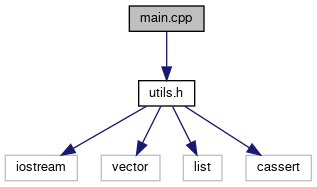
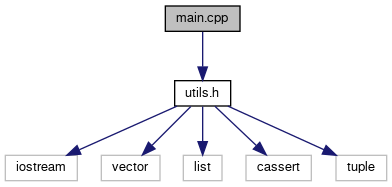
deploy: 55a50cbe7d2920061a69af32688ae398aefd9650

diff --git a/utils_8h_source.html b/utils_8h_source.html
@@ -72,68 +72,87 @@ $(function() {
 <div class="line"><a id="l00005" name="l00005"></a><span class="lineno">    5</span><span class="preprocessor">#include &lt;vector&gt;</span></div>
 <div class="line"><a id="l00006" name="l00006"></a><span class="lineno">    6</span><span class="preprocessor">#include &lt;list&gt;</span></div>
 <div class="line"><a id="l00007" name="l00007"></a><span class="lineno">    7</span><span class="preprocessor">#include &lt;cassert&gt;</span></div>
-<div class="line"><a id="l00008" name="l00008"></a><span class="lineno">    8</span> </div>
-<div class="line"><a id="l00023" name="l00023"></a><span class="lineno"><a class="line" href="namespaceutils.html">   23</a></span><span class="keyword">namespace </span><a class="code hl_namespace" href="namespaceutils.html">utils</a></div>
-<div class="line"><a id="l00024" name="l00024"></a><span class="lineno">   24</span>{</div>
-<div class="line"><a id="l00030" name="l00030"></a><span class="lineno"><a class="line" href="namespaceutils.html#a725b74b07b30df6a8e6a67eac89278de">   30</a></span>    <span class="keywordtype">void</span> <a class="code hl_function" href="namespaceutils.html#a725b74b07b30df6a8e6a67eac89278de">print_ip</a>(<span class="keyword">const</span> std::string &amp;ip, std::ostream &amp;out = std::cout)</div>
-<div class="line"><a id="l00031" name="l00031"></a><span class="lineno">   31</span>    {</div>
-<div class="line"><a id="l00032" name="l00032"></a><span class="lineno">   32</span>        out &lt;&lt; ip &lt;&lt; std::endl;</div>
-<div class="line"><a id="l00033" name="l00033"></a><span class="lineno">   33</span>    }</div>
-<div class="line"><a id="l00034" name="l00034"></a><span class="lineno">   34</span> </div>
-<div class="line"><a id="l00041" name="l00041"></a><span class="lineno">   41</span>    <span class="keyword">template</span>&lt;<span class="keyword">typename</span> T,</div>
-<div class="line"><a id="l00042" name="l00042"></a><span class="lineno">   42</span>             <span class="keyword">typename</span> Fake =</div>
-<div class="line"><a id="l00043" name="l00043"></a><span class="lineno">   43</span>             <span class="keyword">typename</span> std::enable_if&lt;</div>
-<div class="line"><a id="l00044" name="l00044"></a><span class="lineno">   44</span>                 std::is_integral&lt;T&gt;::value, <span class="keywordtype">void</span></div>
-<div class="line"><a id="l00045" name="l00045"></a><span class="lineno">   45</span>                 &gt;::type</div>
-<div class="line"><a id="l00046" name="l00046"></a><span class="lineno">   46</span>             &gt;</div>
-<div class="line"><a id="l00047" name="l00047"></a><span class="lineno"><a class="line" href="namespaceutils.html#a55b3bae3522f3f6cc1bec69a99edc0c1">   47</a></span>    <span class="keywordtype">void</span> <a class="code hl_function" href="namespaceutils.html#a725b74b07b30df6a8e6a67eac89278de">print_ip</a>(<span class="keyword">const</span> T &amp;ip, std::ostream &amp;out = std::cout)</div>
-<div class="line"><a id="l00048" name="l00048"></a><span class="lineno">   48</span>    {</div>
-<div class="line"><a id="l00049" name="l00049"></a><span class="lineno">   49</span>        <span class="keywordtype">int</span> ip_copy = <span class="keyword">static_cast&lt;</span><span class="keywordtype">int</span><span class="keyword">&gt;</span>(ip);</div>
-<div class="line"><a id="l00050" name="l00050"></a><span class="lineno">   50</span>        out &lt;&lt; ((ip_copy &gt;&gt; 24) &amp; 0xFF) &lt;&lt; <span class="stringliteral">&quot;.&quot;</span></div>
-<div class="line"><a id="l00051" name="l00051"></a><span class="lineno">   51</span>            &lt;&lt; ((ip_copy &gt;&gt; 16) &amp; 0xFF) &lt;&lt; <span class="stringliteral">&quot;.&quot;</span></div>
-<div class="line"><a id="l00052" name="l00052"></a><span class="lineno">   52</span>            &lt;&lt; ((ip_copy &gt;&gt;  8) &amp; 0xFF) &lt;&lt; <span class="stringliteral">&quot;.&quot;</span></div>
-<div class="line"><a id="l00053" name="l00053"></a><span class="lineno">   53</span>            &lt;&lt; ((ip_copy &gt;&gt;  0) &amp; 0xFF) &lt;&lt; std::endl;</div>
-<div class="line"><a id="l00054" name="l00054"></a><span class="lineno">   54</span>    }</div>
-<div class="line"><a id="l00055" name="l00055"></a><span class="lineno">   55</span> </div>
-<div class="line"><a id="l00059" name="l00059"></a><span class="lineno">   59</span>    <span class="keyword">template</span>&lt;<span class="keyword">typename</span> T&gt;</div>
-<div class="line"><a id="l00060" name="l00060"></a><span class="lineno">   60</span>    <span class="keyword">struct </span>is_container {</div>
-<div class="line"><a id="l00061" name="l00061"></a><span class="lineno">   61</span>            <span class="keyword">static</span> <span class="keyword">const</span> <span class="keywordtype">bool</span> value = <span class="keyword">false</span>;</div>
-<div class="line"><a id="l00062" name="l00062"></a><span class="lineno">   62</span>    };</div>
-<div class="line"><a id="l00063" name="l00063"></a><span class="lineno">   63</span> </div>
-<div class="line"><a id="l00064" name="l00064"></a><span class="lineno">   64</span>    <span class="keyword">template</span>&lt;<span class="keyword">typename</span> U&gt;</div>
-<div class="line"><a id="l00065" name="l00065"></a><span class="lineno">   65</span>    <span class="keyword">struct </span>is_container&lt;std::vector&lt;U&gt;&gt; {</div>
-<div class="line"><a id="l00066" name="l00066"></a><span class="lineno">   66</span>            <span class="keyword">static</span> <span class="keyword">const</span> <span class="keywordtype">bool</span> value = <span class="keyword">true</span>;</div>
-<div class="line"><a id="l00067" name="l00067"></a><span class="lineno">   67</span>    };</div>
-<div class="line"><a id="l00068" name="l00068"></a><span class="lineno">   68</span> </div>
-<div class="line"><a id="l00069" name="l00069"></a><span class="lineno">   69</span>    <span class="keyword">template</span>&lt;<span class="keyword">typename</span> U&gt;</div>
-<div class="line"><a id="l00070" name="l00070"></a><span class="lineno">   70</span>    <span class="keyword">struct </span>is_container&lt;std::list&lt;U&gt;&gt; {</div>
-<div class="line"><a id="l00071" name="l00071"></a><span class="lineno">   71</span>            <span class="keyword">static</span> <span class="keyword">const</span> <span class="keywordtype">bool</span> value = <span class="keyword">true</span>;</div>
-<div class="line"><a id="l00072" name="l00072"></a><span class="lineno">   72</span>    };</div>
-<div class="line"><a id="l00083" name="l00083"></a><span class="lineno">   83</span>    <span class="keyword">template</span>&lt;<span class="keyword">typename</span> T,</div>
-<div class="line"><a id="l00084" name="l00084"></a><span class="lineno">   84</span>             <span class="keyword">typename</span> Fake =</div>
-<div class="line"><a id="l00085" name="l00085"></a><span class="lineno">   85</span>             <span class="keyword">typename</span> std::enable_if&lt;</div>
-<div class="line"><a id="l00086" name="l00086"></a><span class="lineno">   86</span>                 is_container&lt;T&gt;::value, <span class="keywordtype">void</span></div>
-<div class="line"><a id="l00087" name="l00087"></a><span class="lineno">   87</span>                 &gt;::type</div>
-<div class="line"><a id="l00088" name="l00088"></a><span class="lineno">   88</span>             &gt;</div>
-<div class="line"><a id="l00089" name="l00089"></a><span class="lineno"><a class="line" href="namespaceutils.html#aed55749e6be03439d9fae6e7123d9bbe">   89</a></span>    <span class="keywordtype">void</span> <a class="code hl_function" href="namespaceutils.html#a725b74b07b30df6a8e6a67eac89278de">print_ip</a>(T &amp;&amp;ip, std::ostream &amp;out = std::cout)</div>
-<div class="line"><a id="l00090" name="l00090"></a><span class="lineno">   90</span>    {</div>
-<div class="line"><a id="l00091" name="l00091"></a><span class="lineno">   91</span>        assert(ip.size() == <span class="keyword">sizeof</span>(<span class="keywordtype">int</span>));</div>
-<div class="line"><a id="l00092" name="l00092"></a><span class="lineno">   92</span>        <span class="keyword">auto</span> i = 0u;</div>
-<div class="line"><a id="l00093" name="l00093"></a><span class="lineno">   93</span>        <span class="keywordflow">for</span> (<span class="keyword">auto</span> it = ip.begin(); it != ip.end(); it++) {</div>
-<div class="line"><a id="l00094" name="l00094"></a><span class="lineno">   94</span>            out &lt;&lt; *it;</div>
-<div class="line"><a id="l00095" name="l00095"></a><span class="lineno">   95</span>            <span class="keywordflow">if</span> (i &lt; <span class="keyword">sizeof</span>(<span class="keywordtype">int</span>) - 1) {</div>
-<div class="line"><a id="l00096" name="l00096"></a><span class="lineno">   96</span>                out &lt;&lt; <span class="charliteral">&#39;.&#39;</span>;</div>
-<div class="line"><a id="l00097" name="l00097"></a><span class="lineno">   97</span>            } <span class="keywordflow">else</span> {</div>
-<div class="line"><a id="l00098" name="l00098"></a><span class="lineno">   98</span>                out &lt;&lt; std::endl;</div>
-<div class="line"><a id="l00099" name="l00099"></a><span class="lineno">   99</span>            }</div>
-<div class="line"><a id="l00100" name="l00100"></a><span class="lineno">  100</span>            i++;</div>
-<div class="line"><a id="l00101" name="l00101"></a><span class="lineno">  101</span>        }</div>
-<div class="line"><a id="l00102" name="l00102"></a><span class="lineno">  102</span>    }</div>
-<div class="line"><a id="l00103" name="l00103"></a><span class="lineno">  103</span>}</div>
+<div class="line"><a id="l00008" name="l00008"></a><span class="lineno">    8</span><span class="preprocessor">#include &lt;tuple&gt;</span></div>
+<div class="line"><a id="l00009" name="l00009"></a><span class="lineno">    9</span> </div>
+<div class="line"><a id="l00024" name="l00024"></a><span class="lineno"><a class="line" href="namespaceutils.html">   24</a></span><span class="keyword">namespace </span><a class="code hl_namespace" href="namespaceutils.html">utils</a></div>
+<div class="line"><a id="l00025" name="l00025"></a><span class="lineno">   25</span>{</div>
+<div class="line"><a id="l00031" name="l00031"></a><span class="lineno"><a class="line" href="namespaceutils.html#a725b74b07b30df6a8e6a67eac89278de">   31</a></span>    <span class="keywordtype">void</span> <a class="code hl_function" href="namespaceutils.html#a725b74b07b30df6a8e6a67eac89278de">print_ip</a>(<span class="keyword">const</span> std::string &amp;ip, std::ostream &amp;out = std::cout)</div>
+<div class="line"><a id="l00032" name="l00032"></a><span class="lineno">   32</span>    {</div>
+<div class="line"><a id="l00033" name="l00033"></a><span class="lineno">   33</span>        out &lt;&lt; ip &lt;&lt; std::endl;</div>
+<div class="line"><a id="l00034" name="l00034"></a><span class="lineno">   34</span>    }</div>
+<div class="line"><a id="l00035" name="l00035"></a><span class="lineno">   35</span> </div>
+<div class="line"><a id="l00042" name="l00042"></a><span class="lineno">   42</span>    <span class="keyword">template</span>&lt;<span class="keyword">typename</span> T,</div>
+<div class="line"><a id="l00043" name="l00043"></a><span class="lineno">   43</span>             <span class="keyword">typename</span> Fake =</div>
+<div class="line"><a id="l00044" name="l00044"></a><span class="lineno">   44</span>             <span class="keyword">typename</span> std::enable_if&lt;</div>
+<div class="line"><a id="l00045" name="l00045"></a><span class="lineno">   45</span>                 std::is_integral&lt;T&gt;::value, <span class="keywordtype">void</span></div>
+<div class="line"><a id="l00046" name="l00046"></a><span class="lineno">   46</span>                 &gt;::type</div>
+<div class="line"><a id="l00047" name="l00047"></a><span class="lineno">   47</span>             &gt;</div>
+<div class="line"><a id="l00048" name="l00048"></a><span class="lineno"><a class="line" href="namespaceutils.html#a55b3bae3522f3f6cc1bec69a99edc0c1">   48</a></span>    <span class="keywordtype">void</span> <a class="code hl_function" href="namespaceutils.html#a725b74b07b30df6a8e6a67eac89278de">print_ip</a>(<span class="keyword">const</span> T &amp;ip, std::ostream &amp;out = std::cout)</div>
+<div class="line"><a id="l00049" name="l00049"></a><span class="lineno">   49</span>    {</div>
+<div class="line"><a id="l00050" name="l00050"></a><span class="lineno">   50</span>        <span class="keywordtype">int</span> ip_copy = <span class="keyword">static_cast&lt;</span><span class="keywordtype">int</span><span class="keyword">&gt;</span>(ip);</div>
+<div class="line"><a id="l00051" name="l00051"></a><span class="lineno">   51</span>        out &lt;&lt; ((ip_copy &gt;&gt; 24) &amp; 0xFF) &lt;&lt; <span class="stringliteral">&quot;.&quot;</span></div>
+<div class="line"><a id="l00052" name="l00052"></a><span class="lineno">   52</span>            &lt;&lt; ((ip_copy &gt;&gt; 16) &amp; 0xFF) &lt;&lt; <span class="stringliteral">&quot;.&quot;</span></div>
+<div class="line"><a id="l00053" name="l00053"></a><span class="lineno">   53</span>            &lt;&lt; ((ip_copy &gt;&gt;  8) &amp; 0xFF) &lt;&lt; <span class="stringliteral">&quot;.&quot;</span></div>
+<div class="line"><a id="l00054" name="l00054"></a><span class="lineno">   54</span>            &lt;&lt; ((ip_copy &gt;&gt;  0) &amp; 0xFF) &lt;&lt; std::endl;</div>
+<div class="line"><a id="l00055" name="l00055"></a><span class="lineno">   55</span>    }</div>
+<div class="line"><a id="l00056" name="l00056"></a><span class="lineno">   56</span> </div>
+<div class="line"><a id="l00060" name="l00060"></a><span class="lineno">   60</span>    <span class="keyword">template</span>&lt;<span class="keyword">typename</span> T&gt;</div>
+<div class="line"><a id="l00061" name="l00061"></a><span class="lineno">   61</span>    <span class="keyword">struct </span>is_container {</div>
+<div class="line"><a id="l00062" name="l00062"></a><span class="lineno">   62</span>            <span class="keyword">static</span> <span class="keyword">const</span> <span class="keywordtype">bool</span> value = <span class="keyword">false</span>;</div>
+<div class="line"><a id="l00063" name="l00063"></a><span class="lineno">   63</span>    };</div>
+<div class="line"><a id="l00064" name="l00064"></a><span class="lineno">   64</span> </div>
+<div class="line"><a id="l00065" name="l00065"></a><span class="lineno">   65</span>    <span class="keyword">template</span>&lt;<span class="keyword">typename</span> U&gt;</div>
+<div class="line"><a id="l00066" name="l00066"></a><span class="lineno">   66</span>    <span class="keyword">struct </span>is_container&lt;std::vector&lt;U&gt;&gt; {</div>
+<div class="line"><a id="l00067" name="l00067"></a><span class="lineno">   67</span>            <span class="keyword">static</span> <span class="keyword">const</span> <span class="keywordtype">bool</span> value = <span class="keyword">true</span>;</div>
+<div class="line"><a id="l00068" name="l00068"></a><span class="lineno">   68</span>    };</div>
+<div class="line"><a id="l00069" name="l00069"></a><span class="lineno">   69</span> </div>
+<div class="line"><a id="l00070" name="l00070"></a><span class="lineno">   70</span>    <span class="keyword">template</span>&lt;<span class="keyword">typename</span> U&gt;</div>
+<div class="line"><a id="l00071" name="l00071"></a><span class="lineno">   71</span>    <span class="keyword">struct </span>is_container&lt;std::list&lt;U&gt;&gt; {</div>
+<div class="line"><a id="l00072" name="l00072"></a><span class="lineno">   72</span>            <span class="keyword">static</span> <span class="keyword">const</span> <span class="keywordtype">bool</span> value = <span class="keyword">true</span>;</div>
+<div class="line"><a id="l00073" name="l00073"></a><span class="lineno">   73</span>    };</div>
+<div class="line"><a id="l00084" name="l00084"></a><span class="lineno">   84</span>    <span class="keyword">template</span>&lt;<span class="keyword">typename</span> T,</div>
+<div class="line"><a id="l00085" name="l00085"></a><span class="lineno">   85</span>             <span class="keyword">typename</span> Fake =</div>
+<div class="line"><a id="l00086" name="l00086"></a><span class="lineno">   86</span>             <span class="keyword">typename</span> std::enable_if&lt;</div>
+<div class="line"><a id="l00087" name="l00087"></a><span class="lineno">   87</span>                 is_container&lt;T&gt;::value, <span class="keywordtype">void</span></div>
+<div class="line"><a id="l00088" name="l00088"></a><span class="lineno">   88</span>                 &gt;::type</div>
+<div class="line"><a id="l00089" name="l00089"></a><span class="lineno">   89</span>             &gt;</div>
+<div class="line"><a id="l00090" name="l00090"></a><span class="lineno"><a class="line" href="namespaceutils.html#aed55749e6be03439d9fae6e7123d9bbe">   90</a></span>    <span class="keywordtype">void</span> <a class="code hl_function" href="namespaceutils.html#a725b74b07b30df6a8e6a67eac89278de">print_ip</a>(T &amp;&amp;ip, std::ostream &amp;out = std::cout)</div>
+<div class="line"><a id="l00091" name="l00091"></a><span class="lineno">   91</span>    {</div>
+<div class="line"><a id="l00092" name="l00092"></a><span class="lineno">   92</span>        assert(ip.size() == <span class="keyword">sizeof</span>(<span class="keywordtype">int</span>));</div>
+<div class="line"><a id="l00093" name="l00093"></a><span class="lineno">   93</span>        <span class="keyword">auto</span> i = 0u;</div>
+<div class="line"><a id="l00094" name="l00094"></a><span class="lineno">   94</span>        <span class="keywordflow">for</span> (<span class="keyword">auto</span> it = ip.begin(); it != ip.end(); it++) {</div>
+<div class="line"><a id="l00095" name="l00095"></a><span class="lineno">   95</span>            out &lt;&lt; *it;</div>
+<div class="line"><a id="l00096" name="l00096"></a><span class="lineno">   96</span>            <span class="keywordflow">if</span> (i &lt; <span class="keyword">sizeof</span>(<span class="keywordtype">int</span>) - 1) {</div>
+<div class="line"><a id="l00097" name="l00097"></a><span class="lineno">   97</span>                out &lt;&lt; <span class="charliteral">&#39;.&#39;</span>;</div>
+<div class="line"><a id="l00098" name="l00098"></a><span class="lineno">   98</span>            } <span class="keywordflow">else</span> {</div>
+<div class="line"><a id="l00099" name="l00099"></a><span class="lineno">   99</span>                out &lt;&lt; std::endl;</div>
+<div class="line"><a id="l00100" name="l00100"></a><span class="lineno">  100</span>            }</div>
+<div class="line"><a id="l00101" name="l00101"></a><span class="lineno">  101</span>            i++;</div>
+<div class="line"><a id="l00102" name="l00102"></a><span class="lineno">  102</span>        }</div>
+<div class="line"><a id="l00103" name="l00103"></a><span class="lineno">  103</span>    }</div>
 <div class="line"><a id="l00104" name="l00104"></a><span class="lineno">  104</span> </div>
-<div class="line"><a id="l00105" name="l00105"></a><span class="lineno">  105</span><span class="preprocessor">#endif </span><span class="comment">// UTILS_H</span></div>
-<div class="ttc" id="anamespaceutils_html"><div class="ttname"><a href="namespaceutils.html">utils</a></div><div class="ttdoc">Функции для вывода ip-адресов в разных форматах.</div><div class="ttdef"><b>Definition:</b> utils.h:24</div></div>
-<div class="ttc" id="anamespaceutils_html_a725b74b07b30df6a8e6a67eac89278de"><div class="ttname"><a href="namespaceutils.html#a725b74b07b30df6a8e6a67eac89278de">utils::print_ip</a></div><div class="ttdeci">void print_ip(const std::string &amp;ip, std::ostream &amp;out=std::cout)</div><div class="ttdoc">print_ip - вывод ip-адреса в строковом формате</div><div class="ttdef"><b>Definition:</b> utils.h:30</div></div>
+<div class="line"><a id="l00111" name="l00111"></a><span class="lineno">  111</span>    <span class="keyword">template</span> &lt;<span class="keyword">typename</span>... Args&gt;</div>
+<div class="line"><a id="l00112" name="l00112"></a><span class="lineno"><a class="line" href="namespaceutils.html#a98fceb55a7ec4406da72f75aee28f1dc">  112</a></span>    <span class="keywordtype">void</span> <a class="code hl_function" href="namespaceutils.html#a725b74b07b30df6a8e6a67eac89278de">print_ip</a>(<span class="keyword">const</span> std::tuple&lt;Args...&gt;&amp; ip, std::ostream &amp;out = std::cout)</div>
+<div class="line"><a id="l00113" name="l00113"></a><span class="lineno">  113</span>    {</div>
+<div class="line"><a id="l00114" name="l00114"></a><span class="lineno">  114</span>        <span class="keyword">static_assert</span>(<span class="keyword">sizeof</span>...(Args) == 4, <span class="stringliteral">&quot;Incorrect tuple size&quot;</span>);</div>
+<div class="line"><a id="l00115" name="l00115"></a><span class="lineno">  115</span>        <span class="keyword">using</span> T0 = <span class="keyword">typename</span> std::tuple_element&lt;0, std::tuple&lt;Args...&gt; &gt;::type;</div>
+<div class="line"><a id="l00116" name="l00116"></a><span class="lineno">  116</span>        <span class="keyword">using</span> T1 = <span class="keyword">typename</span> std::tuple_element&lt;1, std::tuple&lt;Args...&gt; &gt;::type;</div>
+<div class="line"><a id="l00117" name="l00117"></a><span class="lineno">  117</span>        <span class="keyword">using</span> T2 = <span class="keyword">typename</span> std::tuple_element&lt;2, std::tuple&lt;Args...&gt; &gt;::type;</div>
+<div class="line"><a id="l00118" name="l00118"></a><span class="lineno">  118</span>        <span class="keyword">using</span> T3 = <span class="keyword">typename</span> std::tuple_element&lt;3, std::tuple&lt;Args...&gt; &gt;::type;</div>
+<div class="line"><a id="l00119" name="l00119"></a><span class="lineno">  119</span>        <span class="keyword">static_assert</span>(std::is_same&lt;T0, T1&gt;::value, <span class="stringliteral">&quot;&quot;</span>);</div>
+<div class="line"><a id="l00120" name="l00120"></a><span class="lineno">  120</span>        <span class="keyword">static_assert</span>(std::is_same&lt;T0, T2&gt;::value, <span class="stringliteral">&quot;&quot;</span>);</div>
+<div class="line"><a id="l00121" name="l00121"></a><span class="lineno">  121</span>        <span class="keyword">static_assert</span>(std::is_same&lt;T0, T3&gt;::value, <span class="stringliteral">&quot;&quot;</span>);</div>
+<div class="line"><a id="l00122" name="l00122"></a><span class="lineno">  122</span>        out &lt;&lt; std::get&lt;0&gt;(ip) &lt;&lt; <span class="stringliteral">&quot;.&quot;</span>;</div>
+<div class="line"><a id="l00123" name="l00123"></a><span class="lineno">  123</span>        out &lt;&lt; std::get&lt;1&gt;(ip) &lt;&lt; <span class="stringliteral">&quot;.&quot;</span>;</div>
+<div class="line"><a id="l00124" name="l00124"></a><span class="lineno">  124</span>        out &lt;&lt; std::get&lt;2&gt;(ip) &lt;&lt; <span class="stringliteral">&quot;.&quot;</span>;</div>
+<div class="line"><a id="l00125" name="l00125"></a><span class="lineno">  125</span>        out &lt;&lt; std::get&lt;3&gt;(ip) &lt;&lt; std::endl;</div>
+<div class="line"><a id="l00126" name="l00126"></a><span class="lineno">  126</span>    }</div>
+<div class="line"><a id="l00127" name="l00127"></a><span class="lineno">  127</span> </div>
+<div class="line"><a id="l00128" name="l00128"></a><span class="lineno">  128</span>}</div>
+<div class="line"><a id="l00129" name="l00129"></a><span class="lineno">  129</span> </div>
+<div class="line"><a id="l00130" name="l00130"></a><span class="lineno">  130</span><span class="preprocessor">#endif </span><span class="comment">// UTILS_H</span></div>
+<div class="ttc" id="anamespaceutils_html"><div class="ttname"><a href="namespaceutils.html">utils</a></div><div class="ttdoc">Функции для вывода ip-адресов в разных форматах.</div><div class="ttdef"><b>Definition:</b> utils.h:25</div></div>
+<div class="ttc" id="anamespaceutils_html_a725b74b07b30df6a8e6a67eac89278de"><div class="ttname"><a href="namespaceutils.html#a725b74b07b30df6a8e6a67eac89278de">utils::print_ip</a></div><div class="ttdeci">void print_ip(const std::string &amp;ip, std::ostream &amp;out=std::cout)</div><div class="ttdoc">print_ip - вывод ip-адреса в строковом формате</div><div class="ttdef"><b>Definition:</b> utils.h:31</div></div>
 </div><!-- fragment --></div><!-- contents -->
 <!-- start footer part -->
 <hr class="footer"/><address class="footer"><small>

diff --git a/namespaceutils.html b/namespaceutils.html
@@ -84,6 +84,10 @@ $(function() {
 <tr class="memitem:aed55749e6be03439d9fae6e7123d9bbe"><td class="memTemplItemLeft" align="right" valign="top">void&#160;</td><td class="memTemplItemRight" valign="bottom"><a class="el" href="namespaceutils.html#aed55749e6be03439d9fae6e7123d9bbe">print_ip</a> (T &amp;&amp;ip, std::ostream &amp;out=std::cout)</td></tr>
 <tr class="memdesc:aed55749e6be03439d9fae6e7123d9bbe"><td class="mdescLeft">&#160;</td><td class="mdescRight">print_ip - вывод ip-адреса в формате контейнеров std::vector, std::list  <a href="namespaceutils.html#aed55749e6be03439d9fae6e7123d9bbe">Подробнее...</a><br /></td></tr>
 <tr class="separator:aed55749e6be03439d9fae6e7123d9bbe"><td class="memSeparator" colspan="2">&#160;</td></tr>
+<tr class="memitem:a98fceb55a7ec4406da72f75aee28f1dc"><td class="memTemplParams" colspan="2">template&lt;typename... Args&gt; </td></tr>
+<tr class="memitem:a98fceb55a7ec4406da72f75aee28f1dc"><td class="memTemplItemLeft" align="right" valign="top">void&#160;</td><td class="memTemplItemRight" valign="bottom"><a class="el" href="namespaceutils.html#a98fceb55a7ec4406da72f75aee28f1dc">print_ip</a> (const std::tuple&lt; Args... &gt; &amp;ip, std::ostream &amp;out=std::cout)</td></tr>
+<tr class="memdesc:a98fceb55a7ec4406da72f75aee28f1dc"><td class="mdescLeft">&#160;</td><td class="mdescRight">print_ip - вывод ip-адреса в формате std::tuple  <a href="namespaceutils.html#a98fceb55a7ec4406da72f75aee28f1dc">Подробнее...</a><br /></td></tr>
+<tr class="separator:a98fceb55a7ec4406da72f75aee28f1dc"><td class="memSeparator" colspan="2">&#160;</td></tr>
 </table>
 <a name="details" id="details"></a><h2 class="groupheader">Подробное описание</h2>
 <div class="textblock"><p >Функции для вывода ip-адресов в разных форматах. </p>
@@ -97,7 +101,7 @@ $(function() {
 </ol>
 </div><h2 class="groupheader">Функции</h2>
 <a id="a725b74b07b30df6a8e6a67eac89278de" name="a725b74b07b30df6a8e6a67eac89278de"></a>
-<h2 class="memtitle"><span class="permalink"><a href="#a725b74b07b30df6a8e6a67eac89278de">&#9670;&nbsp;</a></span>print_ip() <span class="overload">[1/3]</span></h2>
+<h2 class="memtitle"><span class="permalink"><a href="#a725b74b07b30df6a8e6a67eac89278de">&#9670;&nbsp;</a></span>print_ip() <span class="overload">[1/4]</span></h2>
 
 <div class="memitem">
 <div class="memproto">
@@ -133,8 +137,53 @@ $(function() {
 
 </div>
 </div>
+<a id="a98fceb55a7ec4406da72f75aee28f1dc" name="a98fceb55a7ec4406da72f75aee28f1dc"></a>
+<h2 class="memtitle"><span class="permalink"><a href="#a98fceb55a7ec4406da72f75aee28f1dc">&#9670;&nbsp;</a></span>print_ip() <span class="overload">[2/4]</span></h2>
+
+<div class="memitem">
+<div class="memproto">
+<div class="memtemplate">
+template&lt;typename... Args&gt; </div>
+      <table class="memname">
+        <tr>
+          <td class="memname">void utils::print_ip </td>
+          <td>(</td>
+          <td class="paramtype">const std::tuple&lt; Args... &gt; &amp;&#160;</td>
+          <td class="paramname"><em>ip</em>, </td>
+        </tr>
+        <tr>
+          <td class="paramkey"></td>
+          <td></td>
+          <td class="paramtype">std::ostream &amp;&#160;</td>
+          <td class="paramname"><em>out</em> = <code>std::cout</code>&#160;</td>
+        </tr>
+        <tr>
+          <td></td>
+          <td>)</td>
+          <td></td><td></td>
+        </tr>
+      </table>
+</div><div class="memdoc">
+
+<p>print_ip - вывод ip-адреса в формате std::tuple </p>
+<dl class="tparams"><dt>Параметры шаблона</dt><dd>
+  <table class="tparams">
+    <tr><td class="paramname">Args...</td><td>- типы std::tuple </td></tr>
+  </table>
+  </dd>
+</dl>
+<dl class="params"><dt>Аргументы</dt><dd>
+  <table class="params">
+    <tr><td class="paramdir">[in]</td><td class="paramname">ip</td><td>- ip-адрес, представленный std::tuple </td></tr>
+    <tr><td class="paramdir">[in]</td><td class="paramname">out</td><td>- поток вывода (по умолчанию std::cout) </td></tr>
+  </table>
+  </dd>
+</dl>
+
+</div>
+</div>
 <a id="a55b3bae3522f3f6cc1bec69a99edc0c1" name="a55b3bae3522f3f6cc1bec69a99edc0c1"></a>
-<h2 class="memtitle"><span class="permalink"><a href="#a55b3bae3522f3f6cc1bec69a99edc0c1">&#9670;&nbsp;</a></span>print_ip() <span class="overload">[2/3]</span></h2>
+<h2 class="memtitle"><span class="permalink"><a href="#a55b3bae3522f3f6cc1bec69a99edc0c1">&#9670;&nbsp;</a></span>print_ip() <span class="overload">[3/4]</span></h2>
 
 <div class="memitem">
 <div class="memproto">
@@ -179,7 +228,7 @@ template&lt;typename T , typename Fake  = typename std::enable_if&lt;           
 </div>
 </div>
 <a id="aed55749e6be03439d9fae6e7123d9bbe" name="aed55749e6be03439d9fae6e7123d9bbe"></a>
-<h2 class="memtitle"><span class="permalink"><a href="#aed55749e6be03439d9fae6e7123d9bbe">&#9670;&nbsp;</a></span>print_ip() <span class="overload">[3/3]</span></h2>
+<h2 class="memtitle"><span class="permalink"><a href="#aed55749e6be03439d9fae6e7123d9bbe">&#9670;&nbsp;</a></span>print_ip() <span class="overload">[4/4]</span></h2>
 
 <div class="memitem">
 <div class="memproto">

diff --git a/utils_8h.html b/utils_8h.html
@@ -72,16 +72,18 @@ $(function() {
 <code>#include &lt;vector&gt;</code><br />
 <code>#include &lt;list&gt;</code><br />
 <code>#include &lt;cassert&gt;</code><br />
+<code>#include &lt;tuple&gt;</code><br />
 </div><div class="textblock"><div class="dynheader">
 Граф включаемых заголовочных файлов для utils.h:</div>
 <div class="dyncontent">
 <div class="center"><img src="utils_8h__incl.png" border="0" usemap="#autils_8h" alt=""/></div>
 <map name="autils_8h" id="autils_8h">
-<area shape="rect" title=" " alt="" coords="139,5,195,32"/>
+<area shape="rect" title=" " alt="" coords="175,5,231,32"/>
 <area shape="rect" title=" " alt="" coords="5,80,77,107"/>
 <area shape="rect" title=" " alt="" coords="101,80,160,107"/>
 <area shape="rect" title=" " alt="" coords="183,80,222,107"/>
 <area shape="rect" title=" " alt="" coords="246,80,311,107"/>
+<area shape="rect" title=" " alt="" coords="336,80,387,107"/>
 </map>
 </div>
 </div><div class="textblock"><div class="dynheader">
@@ -115,6 +117,10 @@ $(function() {
 <tr class="memitem:aed55749e6be03439d9fae6e7123d9bbe"><td class="memTemplItemLeft" align="right" valign="top">void&#160;</td><td class="memTemplItemRight" valign="bottom"><a class="el" href="namespaceutils.html#aed55749e6be03439d9fae6e7123d9bbe">utils::print_ip</a> (T &amp;&amp;ip, std::ostream &amp;out=std::cout)</td></tr>
 <tr class="memdesc:aed55749e6be03439d9fae6e7123d9bbe"><td class="mdescLeft">&#160;</td><td class="mdescRight">print_ip - вывод ip-адреса в формате контейнеров std::vector, std::list  <a href="namespaceutils.html#aed55749e6be03439d9fae6e7123d9bbe">Подробнее...</a><br /></td></tr>
 <tr class="separator:aed55749e6be03439d9fae6e7123d9bbe"><td class="memSeparator" colspan="2">&#160;</td></tr>
+<tr class="memitem:a98fceb55a7ec4406da72f75aee28f1dc"><td class="memTemplParams" colspan="2">template&lt;typename... Args&gt; </td></tr>
+<tr class="memitem:a98fceb55a7ec4406da72f75aee28f1dc"><td class="memTemplItemLeft" align="right" valign="top">void&#160;</td><td class="memTemplItemRight" valign="bottom"><a class="el" href="namespaceutils.html#a98fceb55a7ec4406da72f75aee28f1dc">utils::print_ip</a> (const std::tuple&lt; Args... &gt; &amp;ip, std::ostream &amp;out=std::cout)</td></tr>
+<tr class="memdesc:a98fceb55a7ec4406da72f75aee28f1dc"><td class="mdescLeft">&#160;</td><td class="mdescRight">print_ip - вывод ip-адреса в формате std::tuple  <a href="namespaceutils.html#a98fceb55a7ec4406da72f75aee28f1dc">Подробнее...</a><br /></td></tr>
+<tr class="separator:a98fceb55a7ec4406da72f75aee28f1dc"><td class="memSeparator" colspan="2">&#160;</td></tr>
 </table>
 </div><!-- contents -->
 <!-- start footer part -->

diff --git a/search/all_3.js b/search/all_3.js
@@ -1,4 +1,4 @@
 var searchData=
 [
-  ['print_5fip_0',['print_ip',['../namespaceutils.html#a725b74b07b30df6a8e6a67eac89278de',1,'utils::print_ip(const std::string &amp;ip, std::ostream &amp;out=std::cout)'],['../namespaceutils.html#a55b3bae3522f3f6cc1bec69a99edc0c1',1,'utils::print_ip(const T &amp;ip, std::ostream &amp;out=std::cout)'],['../namespaceutils.html#aed55749e6be03439d9fae6e7123d9bbe',1,'utils::print_ip(T &amp;&amp;ip, std::ostream &amp;out=std::cout)']]]
+  ['print_5fip_0',['print_ip',['../namespaceutils.html#a725b74b07b30df6a8e6a67eac89278de',1,'utils::print_ip(const std::string &amp;ip, std::ostream &amp;out=std::cout)'],['../namespaceutils.html#a55b3bae3522f3f6cc1bec69a99edc0c1',1,'utils::print_ip(const T &amp;ip, std::ostream &amp;out=std::cout)'],['../namespaceutils.html#aed55749e6be03439d9fae6e7123d9bbe',1,'utils::print_ip(T &amp;&amp;ip, std::ostream &amp;out=std::cout)'],['../namespaceutils.html#a98fceb55a7ec4406da72f75aee28f1dc',1,'utils::print_ip(const std::tuple&lt; Args... &gt; &amp;ip, std::ostream &amp;out=std::cout)']]]
 ];

diff --git a/search/functions_2.js b/search/functions_2.js
@@ -1,4 +1,4 @@
 var searchData=
 [
-  ['print_5fip_0',['print_ip',['../namespaceutils.html#a725b74b07b30df6a8e6a67eac89278de',1,'utils::print_ip(const std::string &amp;ip, std::ostream &amp;out=std::cout)'],['../namespaceutils.html#a55b3bae3522f3f6cc1bec69a99edc0c1',1,'utils::print_ip(const T &amp;ip, std::ostream &amp;out=std::cout)'],['../namespaceutils.html#aed55749e6be03439d9fae6e7123d9bbe',1,'utils::print_ip(T &amp;&amp;ip, std::ostream &amp;out=std::cout)']]]
+  ['print_5fip_0',['print_ip',['../namespaceutils.html#a725b74b07b30df6a8e6a67eac89278de',1,'utils::print_ip(const std::string &amp;ip, std::ostream &amp;out=std::cout)'],['../namespaceutils.html#a55b3bae3522f3f6cc1bec69a99edc0c1',1,'utils::print_ip(const T &amp;ip, std::ostream &amp;out=std::cout)'],['../namespaceutils.html#aed55749e6be03439d9fae6e7123d9bbe',1,'utils::print_ip(T &amp;&amp;ip, std::ostream &amp;out=std::cout)'],['../namespaceutils.html#a98fceb55a7ec4406da72f75aee28f1dc',1,'utils::print_ip(const std::tuple&lt; Args... &gt; &amp;ip, std::ostream &amp;out=std::cout)']]]
 ];

diff --git a/main_8cpp.html b/main_8cpp.html
@@ -73,12 +73,13 @@ $(function() {
 <div class="dyncontent">
 <div class="center"><img src="main_8cpp__incl.png" border="0" usemap="#amain_8cpp" alt=""/></div>
 <map name="amain_8cpp" id="amain_8cpp">
-<area shape="rect" title=" " alt="" coords="129,5,204,32"/>
-<area shape="rect" href="utils_8h.html" title=" " alt="" coords="139,80,195,107"/>
+<area shape="rect" title=" " alt="" coords="165,5,240,32"/>
+<area shape="rect" href="utils_8h.html" title=" " alt="" coords="175,80,231,107"/>
 <area shape="rect" title=" " alt="" coords="5,155,77,181"/>
 <area shape="rect" title=" " alt="" coords="101,155,160,181"/>
 <area shape="rect" title=" " alt="" coords="183,155,222,181"/>
 <area shape="rect" title=" " alt="" coords="246,155,311,181"/>
+<area shape="rect" title=" " alt="" coords="336,155,387,181"/>
 </map>
 </div>
 </div><table class="memberdecls">
